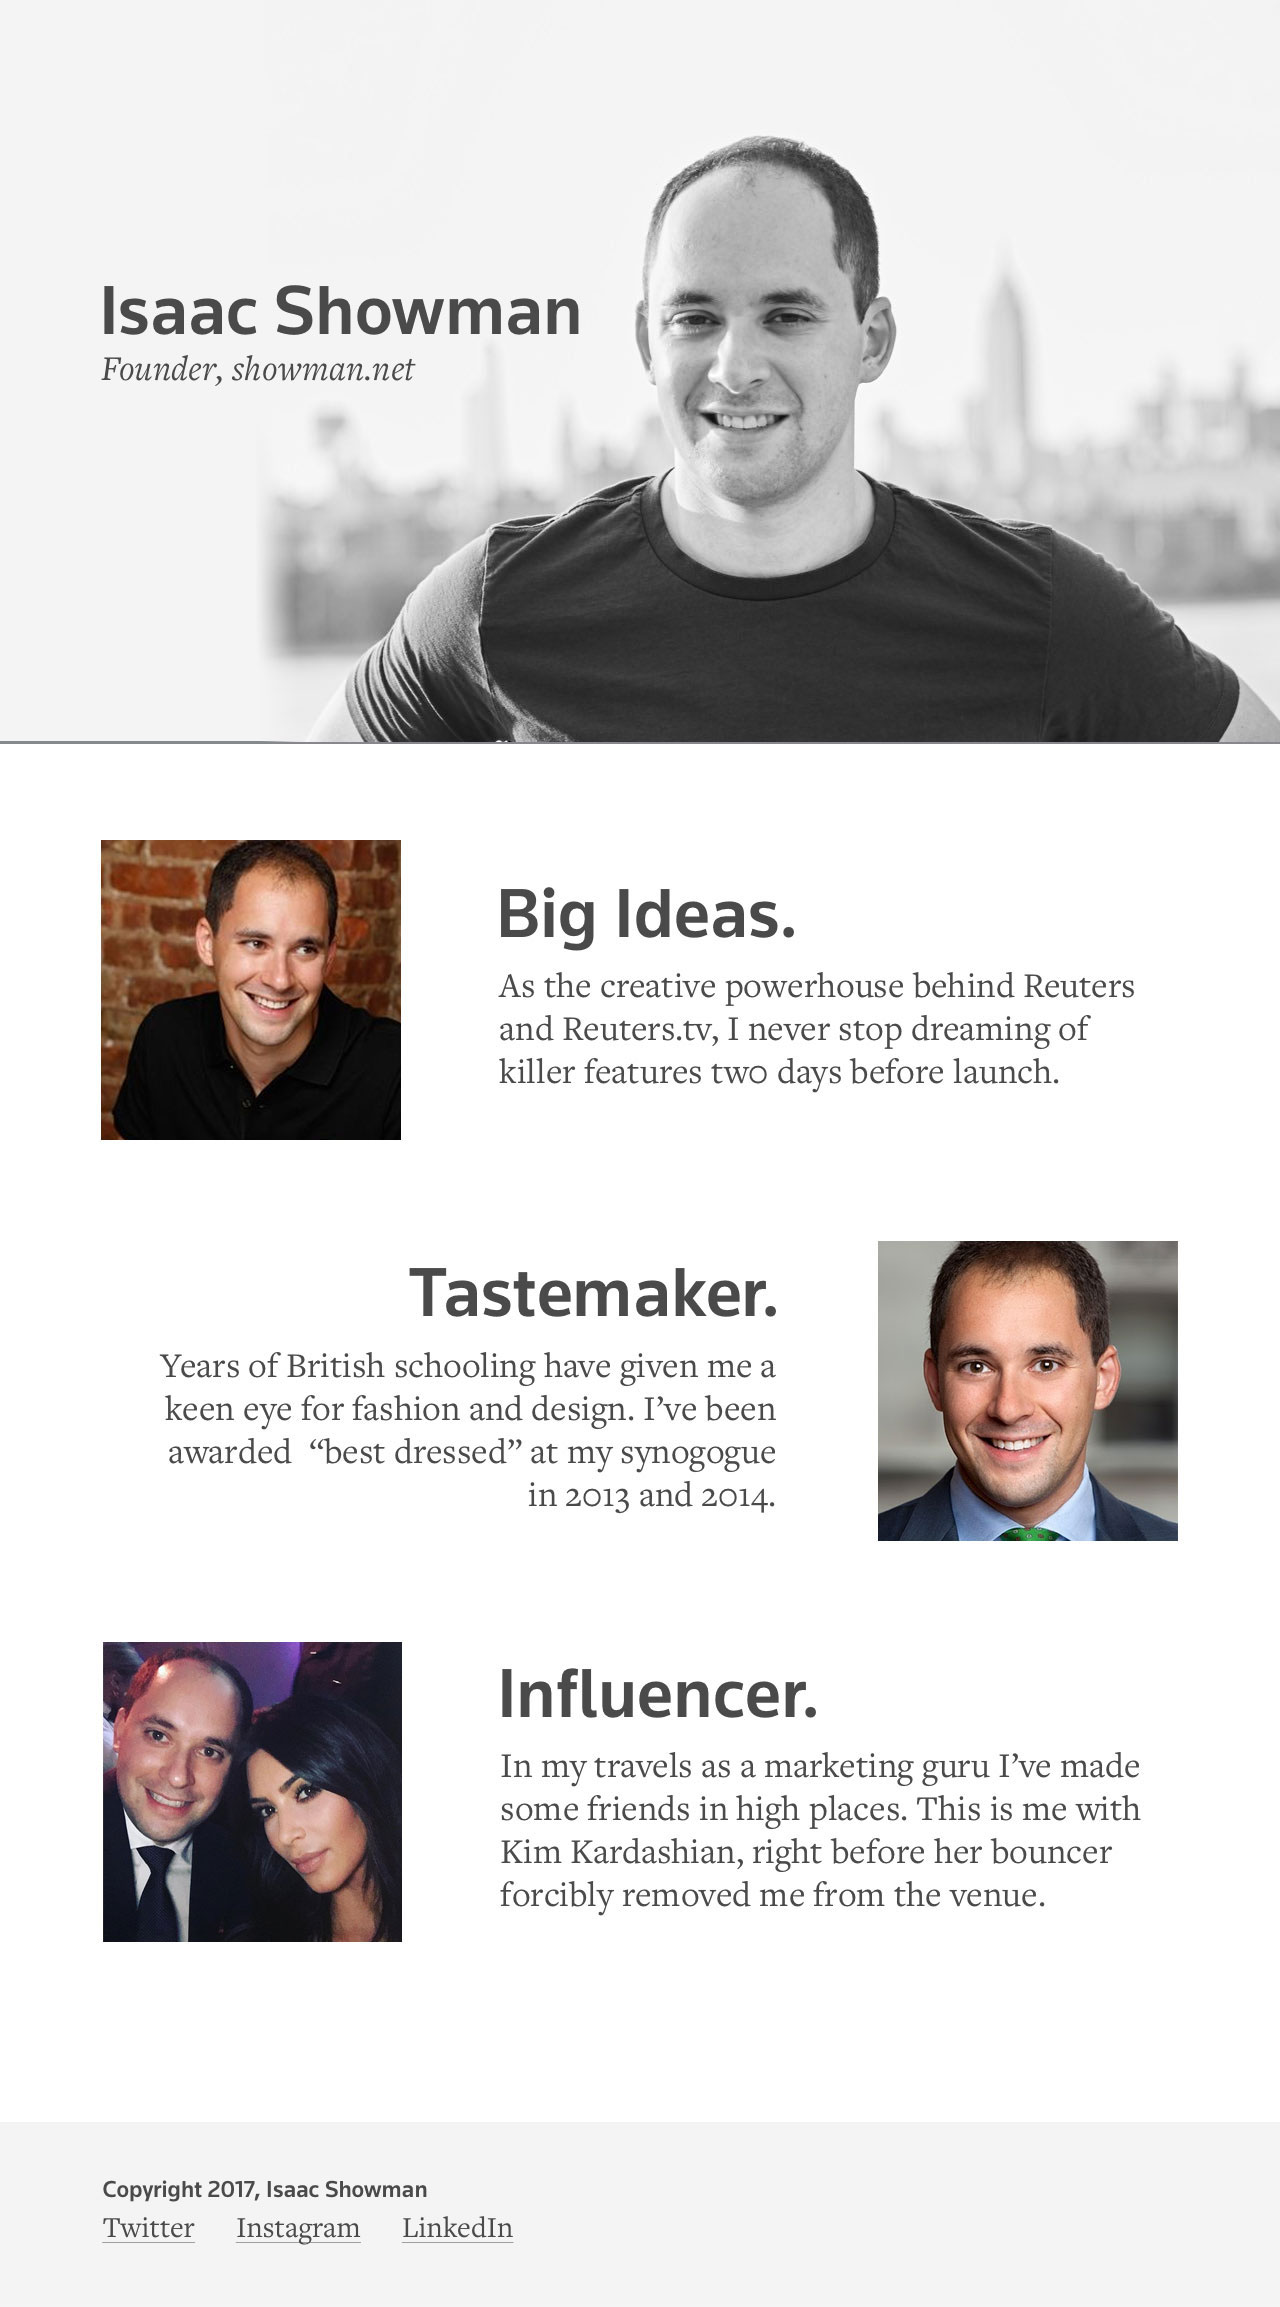
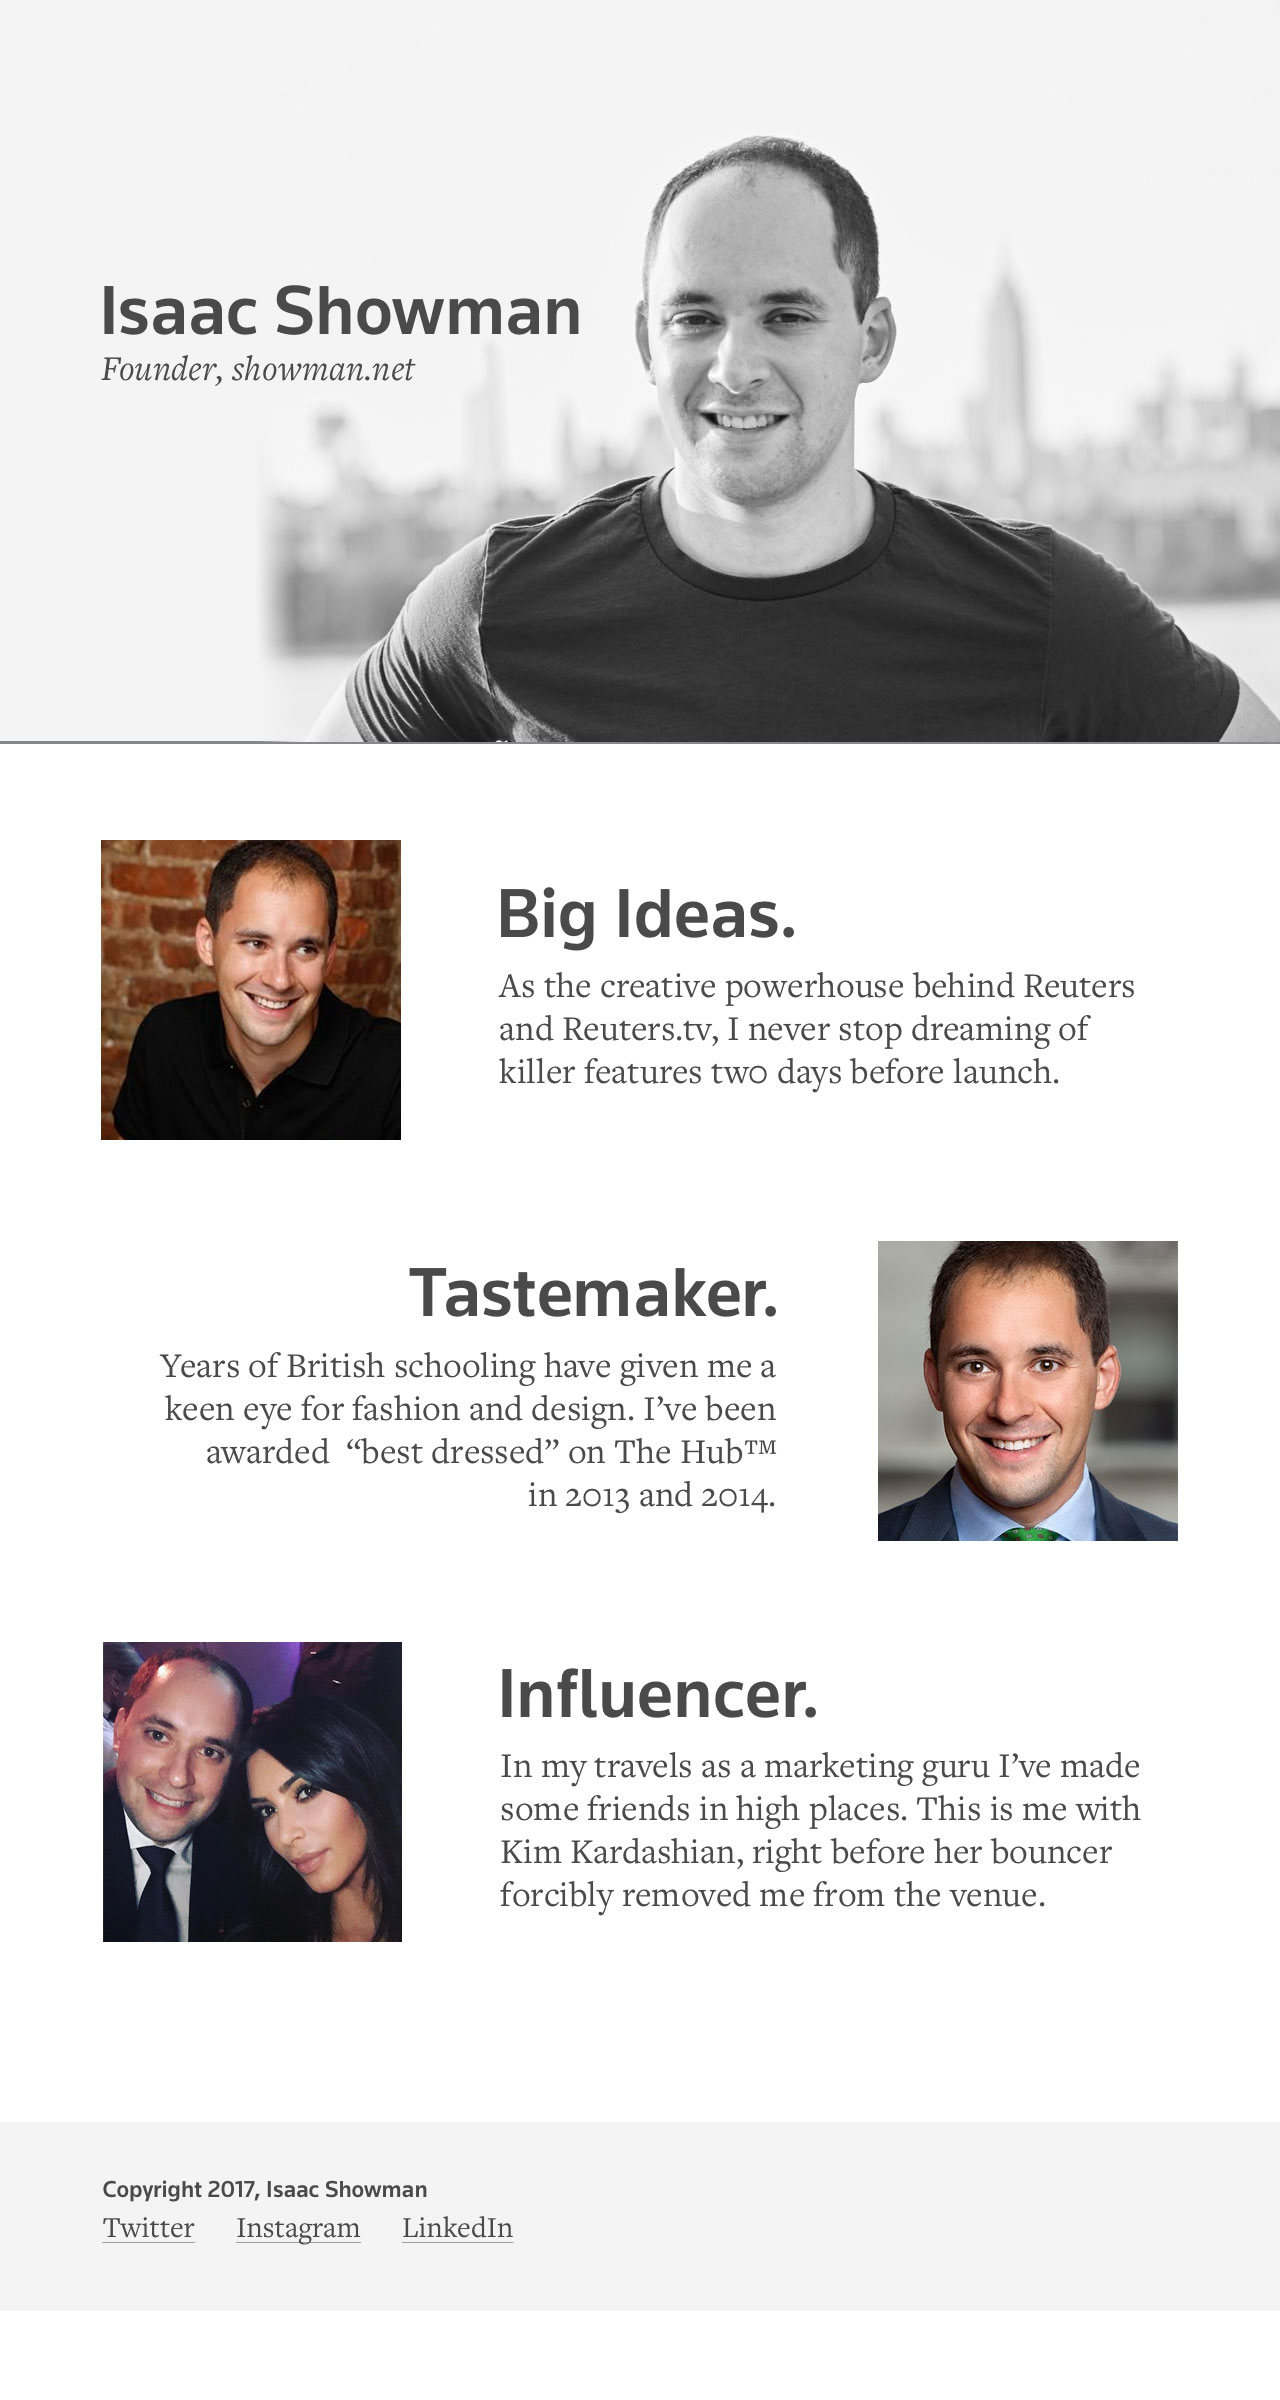
Changing copy

diff --git a/app/assets/instructions.html b/app/assets/instructions.html
@@ -36,7 +36,7 @@ Big Ideas.
 As the creative powerhouse behind Reuters and Reuters.tv, I never stop dreaming of killer features two days before launch.
 
 Tastemaker.
-Years of British schooling have given me a keen eye for fashion and design. I’ve been awarded  “best dressed” at my synogogue in 2013 and 2014.
+Years of British schooling have given me a keen eye for fashion and design. I’ve been awarded  “best dressed” on The Hub™ in 2013 and 2014.
 
 Influencer.
 In my travels as a marketing guru I’ve made some friends in high places. This is me with Kim Kardashian, right before her bouncer forcibly removed me from the venue.
